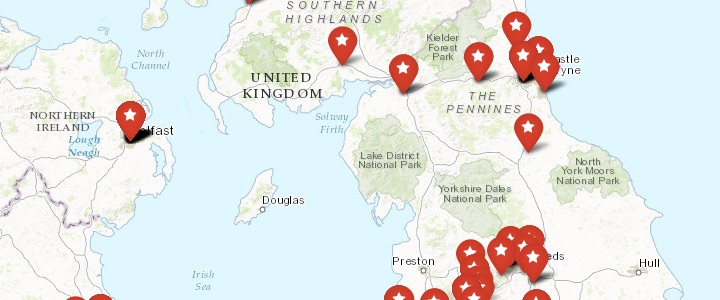
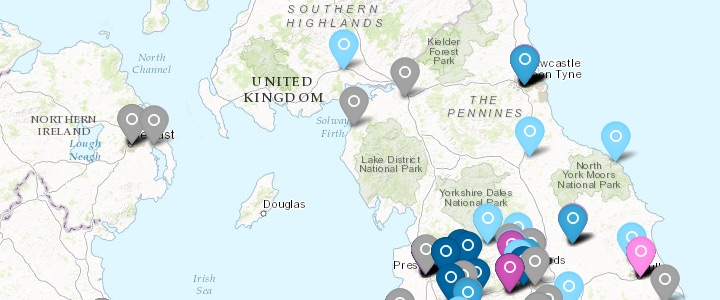
add new PINS version of abolitionists (not on nav; just for screenshots; no clustered so cant view multiple pins per city)

diff --git a/js/abolitionistsmappins.js b/js/abolitionistsmappins.js
@@ -1,0 +1,80 @@
+// init abolitionists map -- NO marker clusterer
+
+    // define tiles 
+    var StamenTonerLite = L.tileLayer('http://{s}.tile.stamen.com/toner-lite/{z}/{x}/{y}.png', {
+      attribution: 'Map tiles by <a href="http://stamen.com">Stamen Design</a>, <a href="http://creativecommons.org/licenses/by/3.0">CC BY 3.0</a> &mdash; Map data &copy; <a href="http://openstreetmap.org">OpenStreetMap</a> contributors, <a href="http://creativecommons.org/licenses/by-sa/2.0/">CC-BY-SA</a>',
+      subdomains: 'abcd',
+      minZoom: 0,
+      maxZoom: 20
+    });
+
+    var EsriWorldTopoMap = L.tileLayer('http://server.arcgisonline.com/ArcGIS/rest/services/World_Topo_Map/MapServer/tile/{z}/{y}/{x}', {
+      attribution: 'Tiles &copy; Esri &mdash; Esri, DeLorme, NAVTEQ, TomTom, Intermap, iPC, USGS, FAO, NPS, NRCAN, GeoBase, Kadaster NL, Ordnance Survey, Esri Japan, METI, Esri China (Hong Kong), and the GIS User Community'
+    });
+
+
+    // create a map in the "map" div, center on a given place (center uk) and zoom to country level
+    // max zoom to city level (10) not street level (15) as geolocations only for given city, not actual address
+    var map = L.map('map', {
+        zoom: 6,
+        minZoom: 6,
+        maxZoom: 10,
+        center: [54.00366,-2.547855],
+        layers: [EsriWorldTopoMap]
+    });
+
+
+    // add layers control
+    var baseMaps = {
+        "Topographical": EsriWorldTopoMap,
+        "Black and white": StamenTonerLite
+    };
+    L.control.layers(baseMaps, null, {collapsed: false}).addTo(map);
+
+
+    // map categories (people) to FA icon colours
+    var colours = {
+      "BoxBrown":'darkblue',
+      "WellsBrown":'blue',
+      "Roper":'lightblue',
+      "Wells":'darkgreen',
+      "Crummell":'green',
+      "Henson":'lightgreen',
+      "Martin":'purple',
+      "Craft":'pink',
+      "Other":'lightgray',
+      "":'lightgray'
+    } 
+
+
+    // read data from CSV and add to map
+    $.get('/abolitionists.tab.txt', function(csvContents)
+    // NB attribute names always lowercase eg Title -> feature.properties.title
+    {
+      var i = 1;
+
+      var geoLayer = L.geoCsv(csvContents, {
+        firstLineTitles: true, 
+        fieldSeparator: '\t',
+        onEachFeature: function (feature, layer) {
+          // nicer way to template this??
+          var popup = '<div class="popup-content">';
+          //popup += i;
+          popup += "<h2>" + feature.properties.person + "</h2>";
+          popup += '<div class="city">' + feature.properties.city + '</div> <div class="date">' + feature.properties.date + "</div>";
+          popup += "<p>" + feature.properties.description + "</p>";
+          popup += "</div>";
+          layer.bindPopup(popup);
+          i ++;
+        },
+        pointToLayer: function (feature, latlng) {
+          //console.log(i + ". " + feature.properties.city + " - " + feature.properties.person);
+          return L.marker(latlng, {icon: L.AwesomeMarkers.icon({icon: 'circle-o', prefix: 'fa', markerColor: colours[feature.properties.category]}) })
+        }
+      });
+
+      // add to map
+      map.addLayer(geoLayer);
+
+
+    });

diff --git a/abolitionistsMapPins.html b/abolitionistsMapPins.html
@@ -1,0 +1,18 @@
+---
+layout: default
+title: "Abolitionists Map"
+ismap: yes
+custom_css: 
+- "/css/leaflet.css"
+- "/css/map.css"
+custom_js:
+- "/js/leaflet.js"
+- "/js/leaflet.geocsv.js"
+- "/js/leaflet.awesome-markers.min.js"
+- "/js/abolitionistsmappins.js"
+---
+
+<!-- MAP -->
+<div class="container-fluid fullheight">
+	<div id="map"></div>
+</div>
